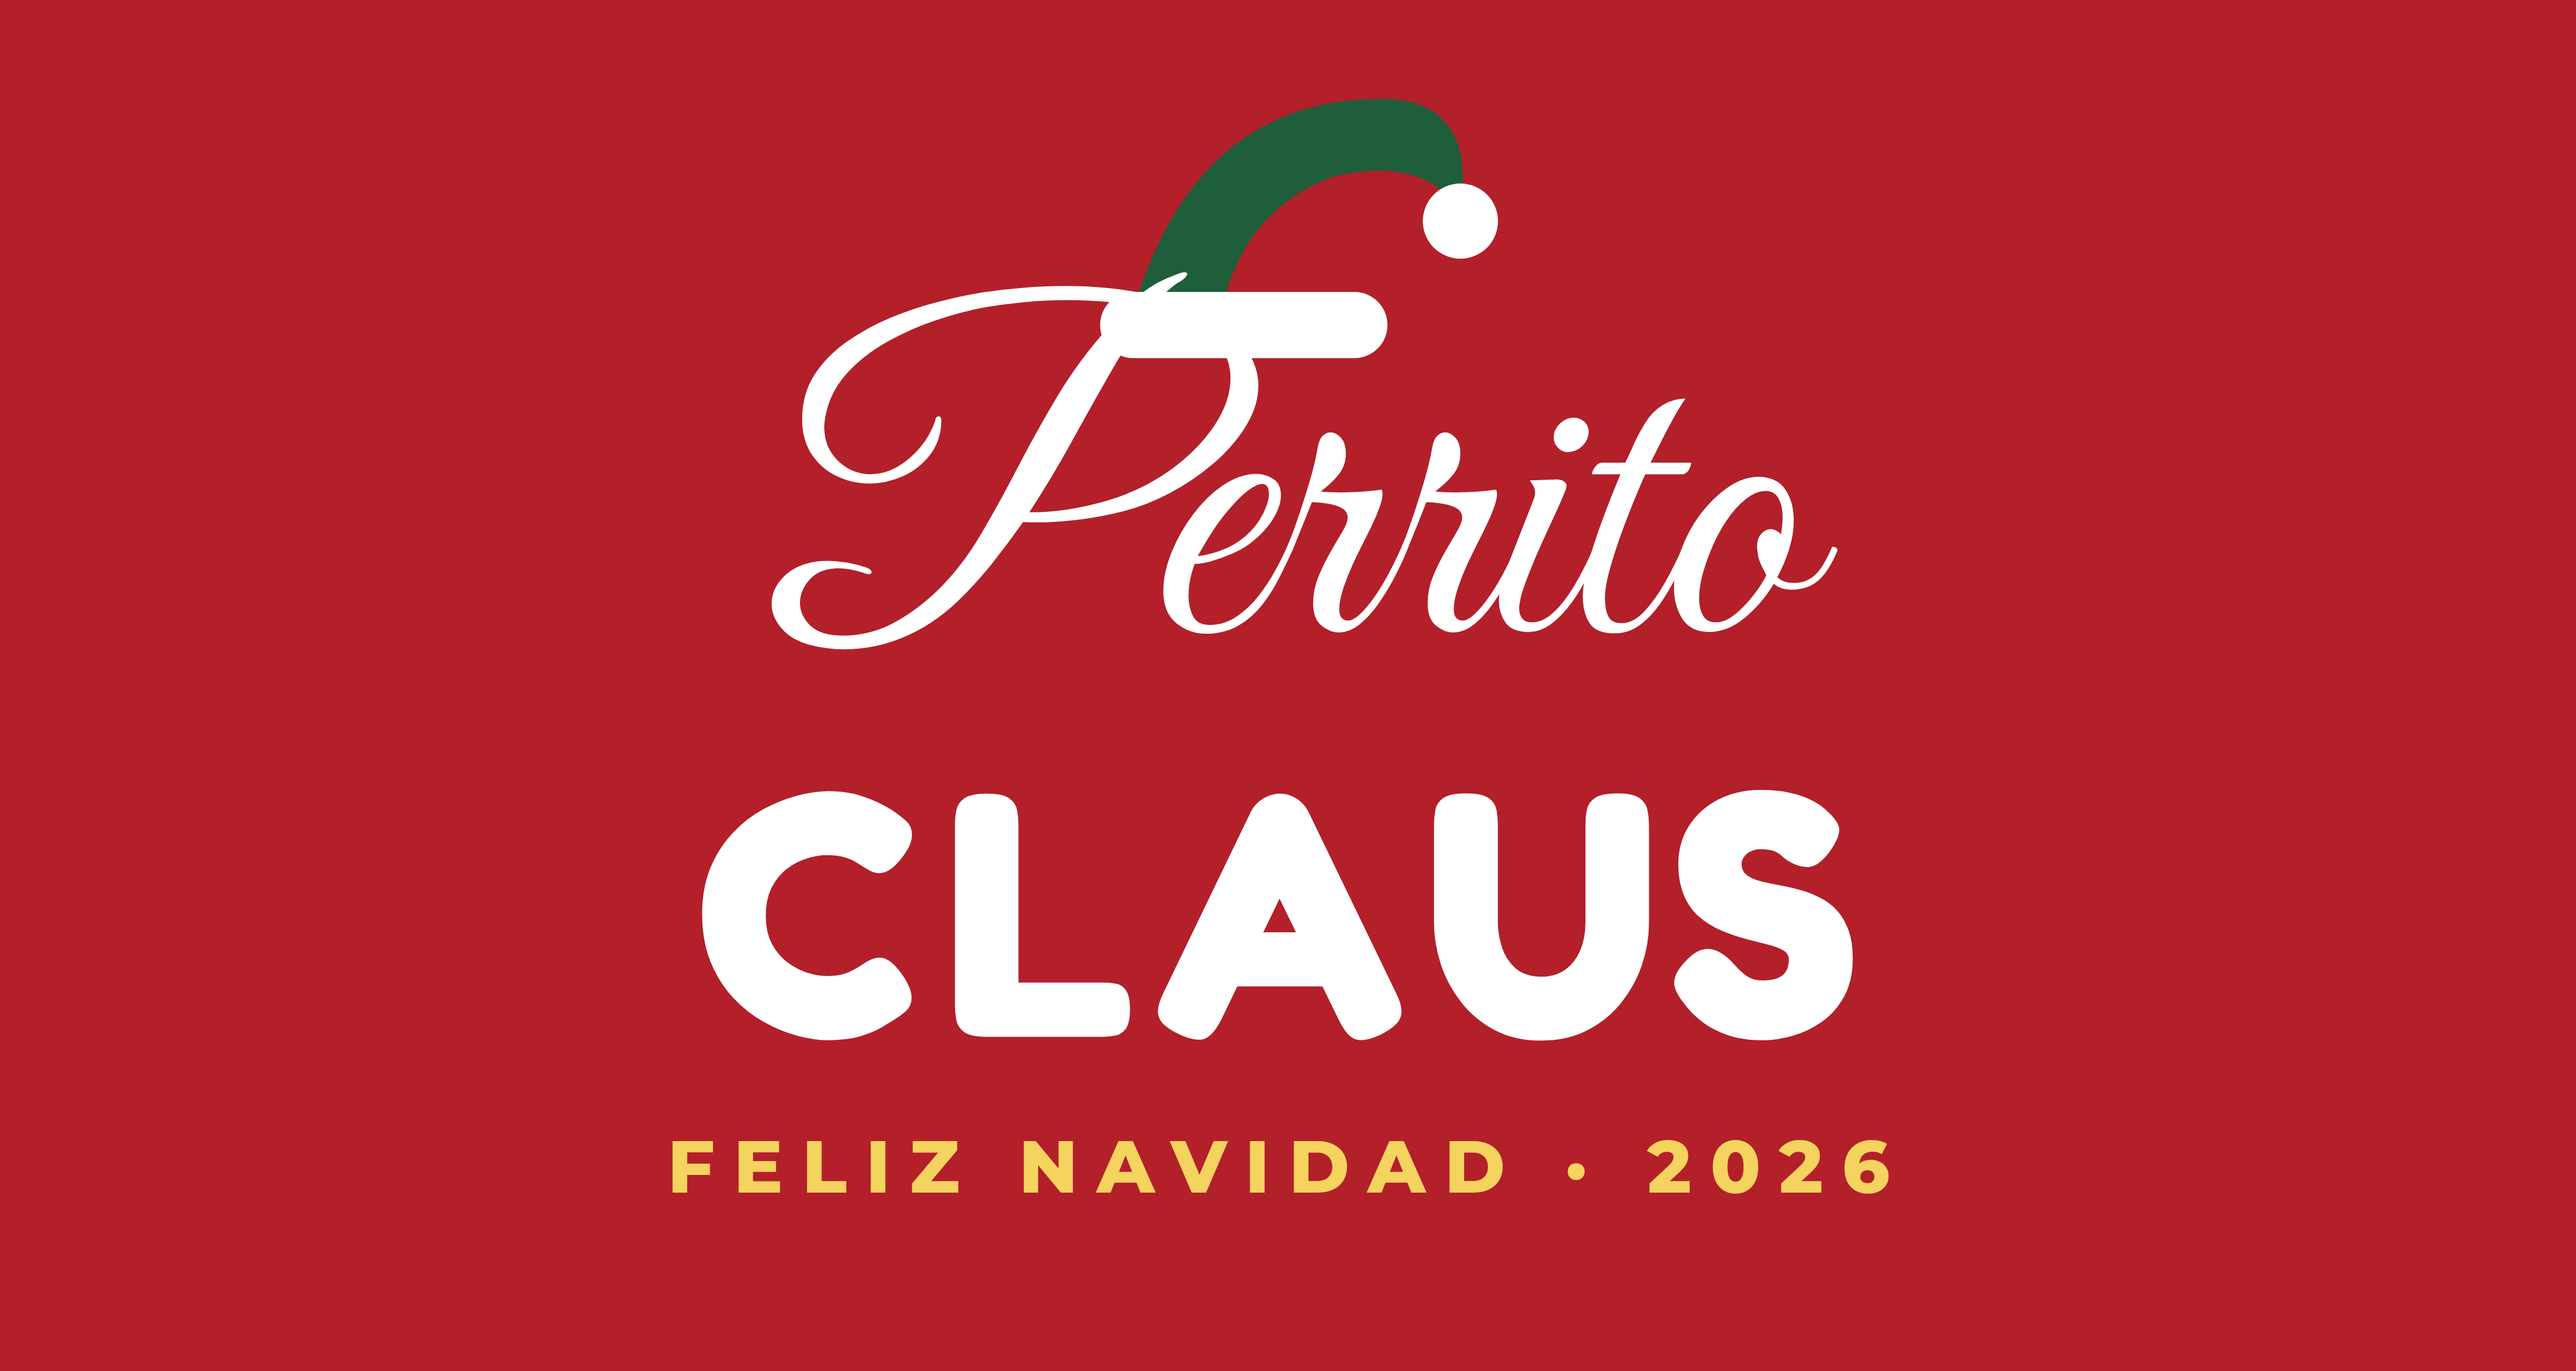
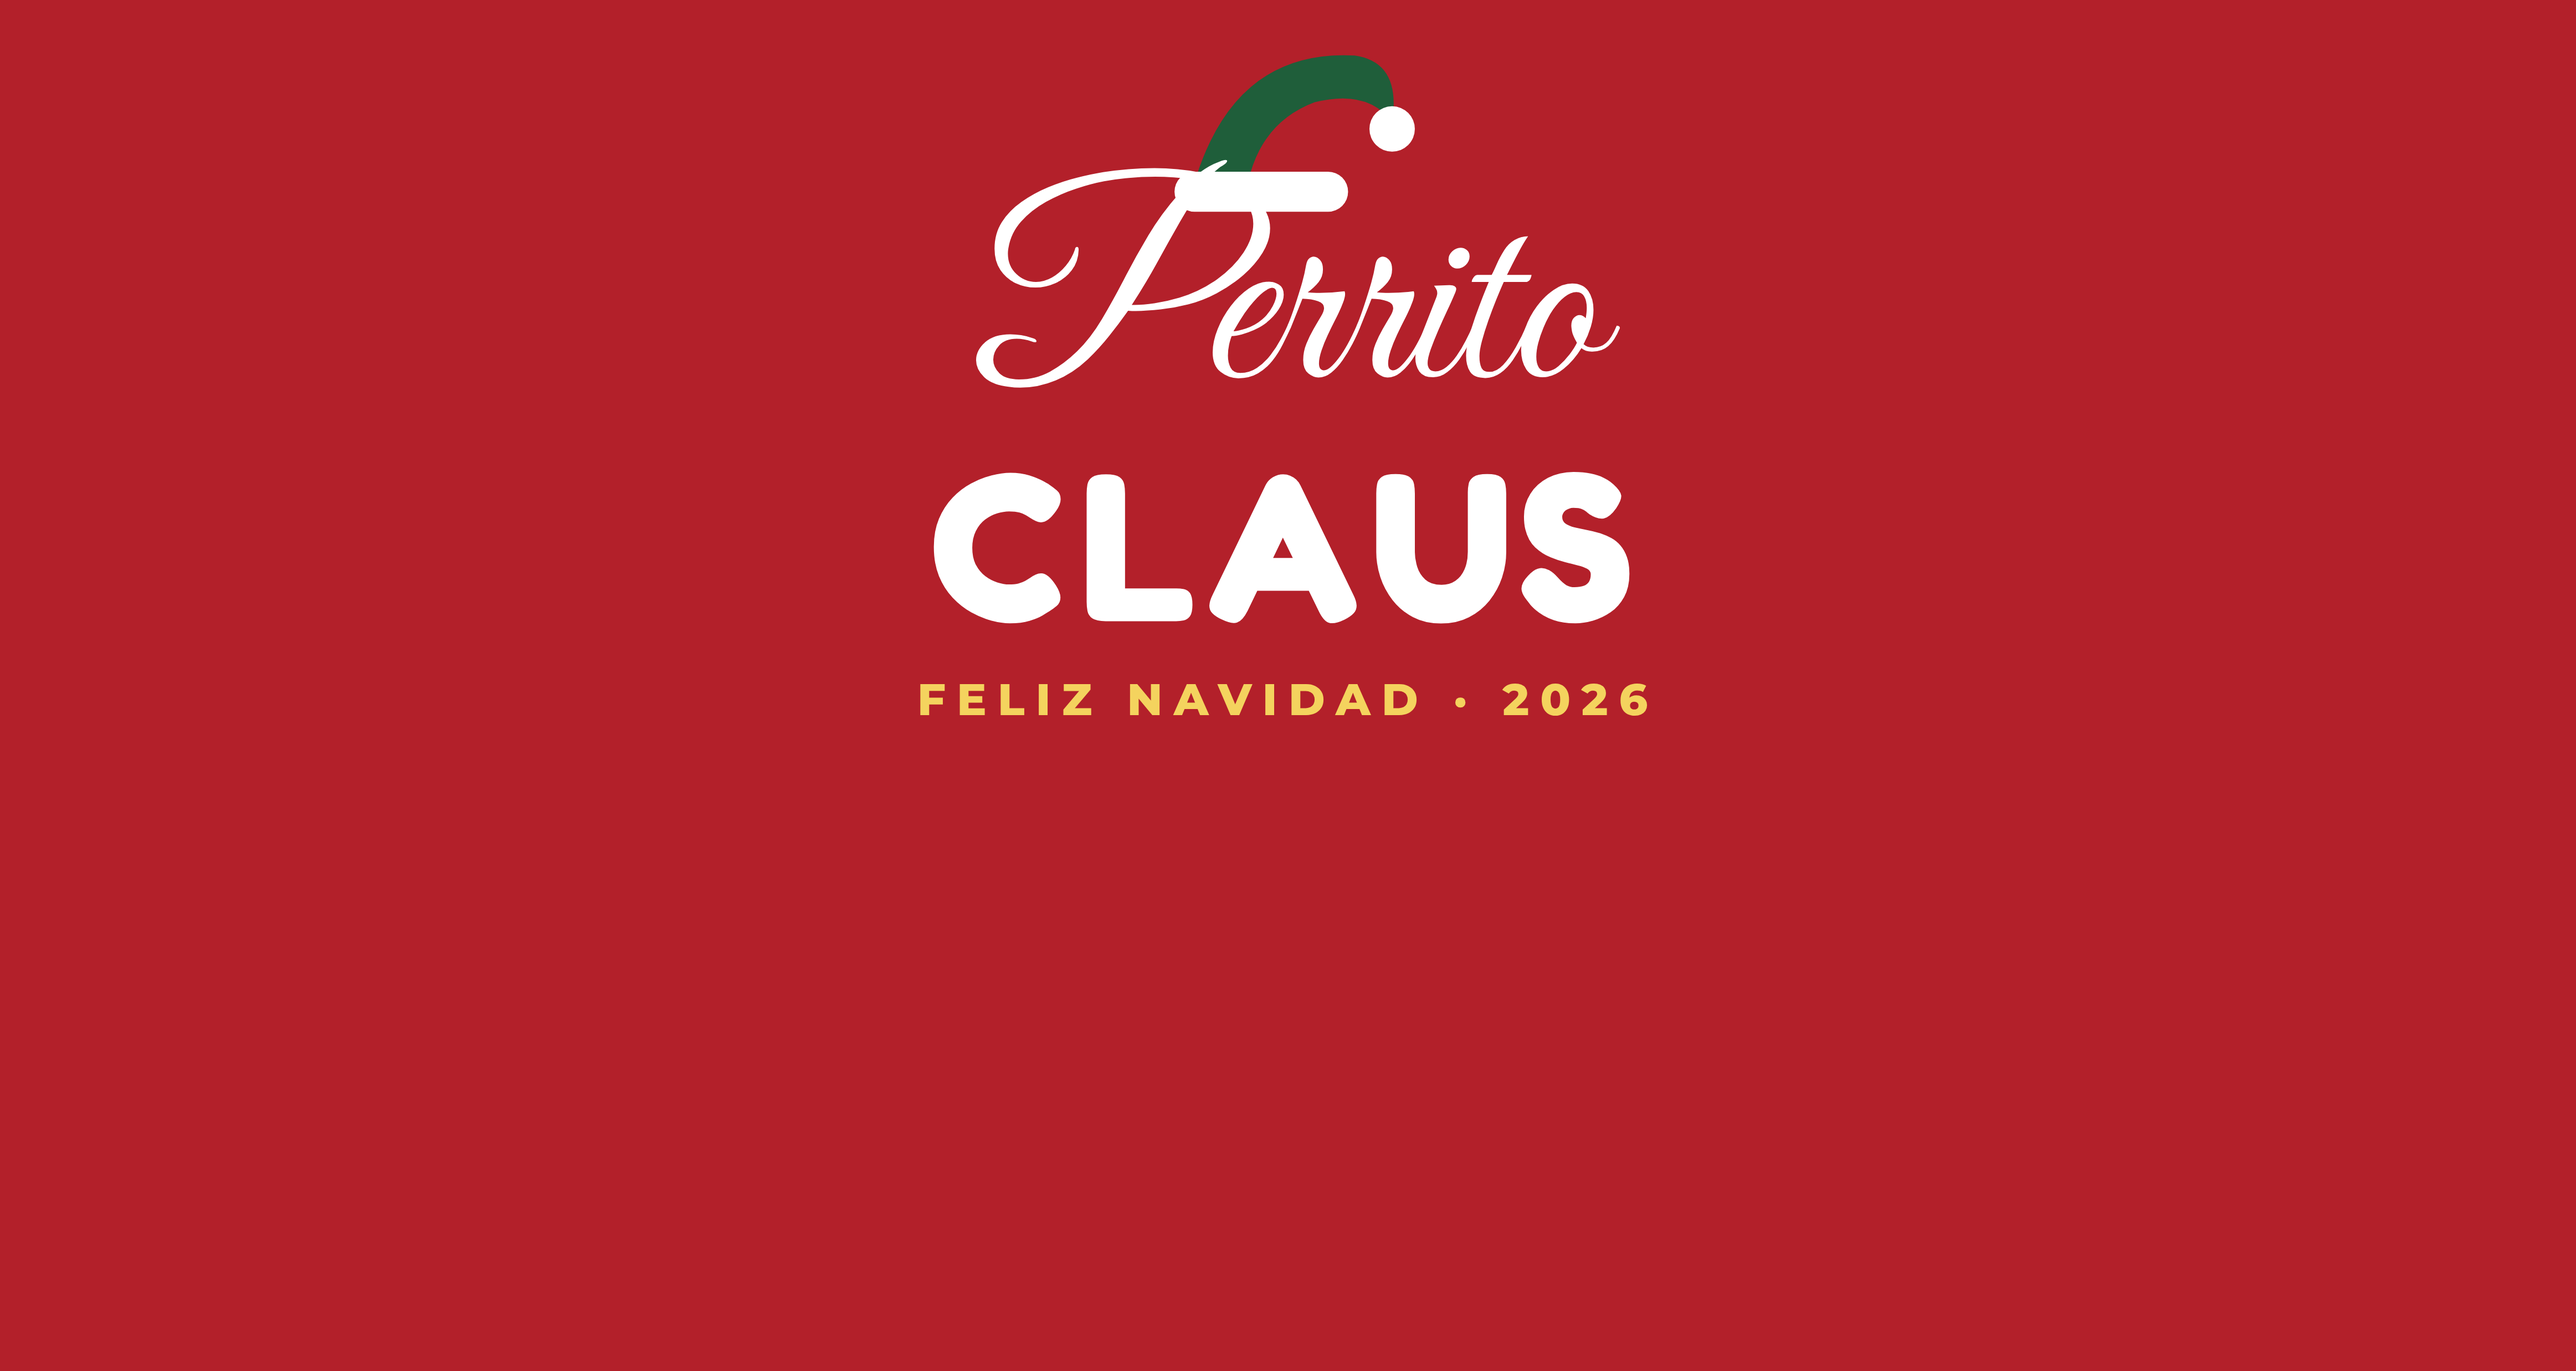
Fit Perrito bandana text inside triangle
Claude-Session: https://claude.ai/code/session_016J2nU7A2YAX41gT6f3cs1D

diff --git a/docs/unity-keepsakes/design-scripts/link_products.py b/docs/unity-keepsakes/design-scripts/link_products.py
@@ -1,0 +1,39 @@
+# Link Shopify products (already imported into Printful) to Printful catalog variants + files, by SKU, using a specs JSON.
+import json,subprocess,time,sys
+SPECS=sys.argv[1]; EXT=json.loads(sys.argv[2])   # {"KEY": "shopify product numeric id"}
+STORE=19015734
+def api(m,p,b=None):
+    while True:
+        c=['curl','-sS','--max-time','90','-X',m,'https://api.printful.com'+p,'-H','Content-Type: application/json']
+        if b: c+=['-d',json.dumps(b)]
+        r=json.loads(subprocess.run(c,capture_output=True,text=True).stdout)
+        if r.get('code')==429: time.sleep(35); continue
+        return r
+P={p['key']:p for p in json.load(open(SPECS))}
+def find(ext):
+    off=0
+    while True:
+        r=api('GET',f'/sync/products?store_id={STORE}&limit=100&offset={off}')
+        for p in r['result']:
+            if p['external_id']==ext: return p['id']
+        off+=100
+        if off>=r['paging']['total']: return None
+for key,ext in EXT.items():
+    pid=None
+    for _ in range(20):
+        pid=find(ext)
+        if pid: break
+        time.sleep(15)
+    if not pid: print(key,'NOT IMPORTED'); continue
+    d=api('GET',f'/sync/products/{pid}?store_id={STORE}')['result']
+    for v in d['sync_variants']:
+        if v['synced']: continue
+        l=P[key]['link'].get(v['sku'])
+        if not l: print(key,'no link for',v['sku']); continue
+        r=api('PUT',f"/sync/variant/{v['id']}?store_id={STORE}",{"variant_id":l['variant_id'],"is_ignored":False,"files":l['files']})
+        if r.get('code')!=200: print(key,v['sku'],r.get('result'))
+        time.sleep(4)
+    time.sleep(5)
+    d=api('GET',f'/sync/products/{pid}?store_id={STORE}')['result']
+    bad=[v['sku'] for v in d['sync_variants'] if not v['synced']]
+    print(key,'printful',pid,'synced',d['sync_product']['synced'],'/',d['sync_product']['variants'],'unsynced:',bad)

diff --git a/docs/unity-keepsakes/design-scripts/pajamas/pj.py b/docs/unity-keepsakes/design-scripts/pajamas/pj.py
@@ -18,6 +18,6 @@ for k,r,sb in roles:
 for k,r,sb in [('duendecito','Duendecito','LITTLE ELF'),('duendecita','Duendecita','LITTLE ELF')]:
     for c,p in ON.items(): J[f'youth_{k}_{c}']=(1500,1800,design(1500,1800,r,sb,scale=.72,top=100,**p))
 J['baby_bebe_white']=(1050,1200,design(1050,1200,'Bebé','CLAUS',scale=.55,top=60,**ON['white']))
-J['bandana_perrito']=(4650,2475,design(4650,2475,'Perrito','CLAUS',scale=1.9,bg='#b3202a',top=80,**ON['red']))
+J['bandana_perrito']=(4650,2475,design(4650,2475,'Perrito','CLAUS',scale=1.15,bg='#b3202a',top=40,**ON['red']))
 for k,(w,h,html) in J.items(): open(f'{OUT}/html/{k}.html','w').write(html)
 json.dump({k:[w,h] for k,(w,h,_) in J.items()},open(f'{OUT}/jobs.json','w'))
